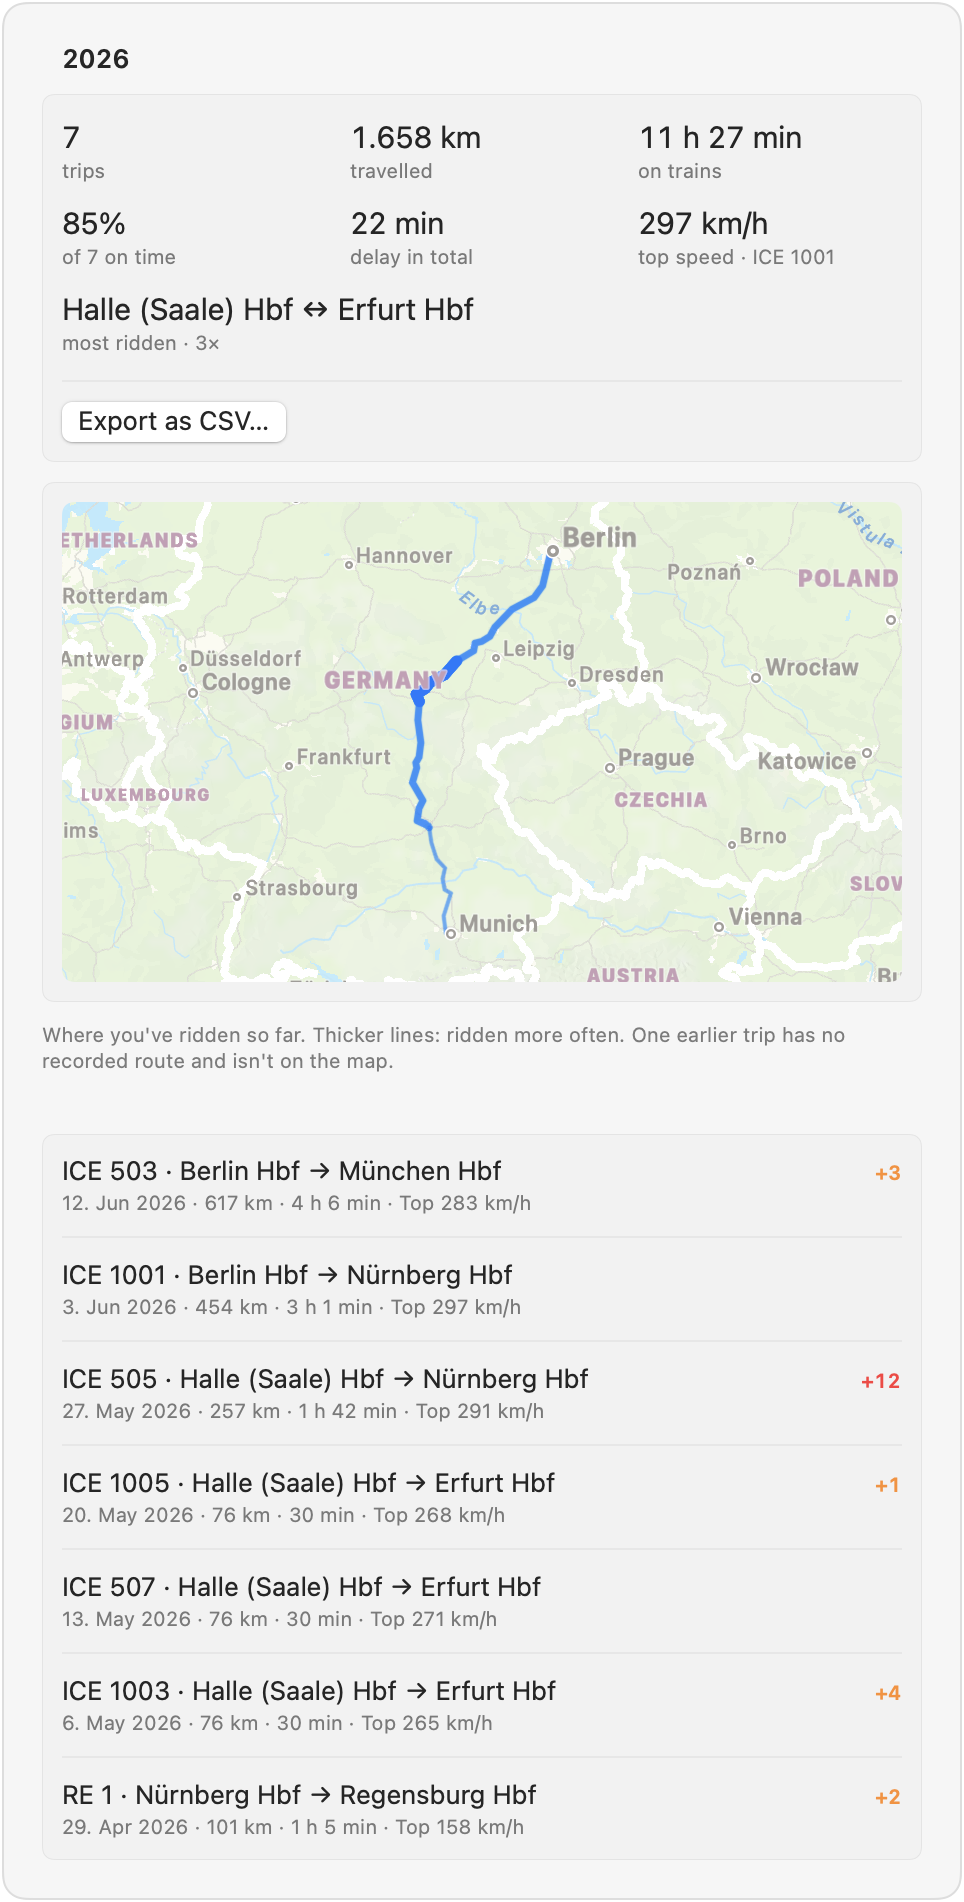
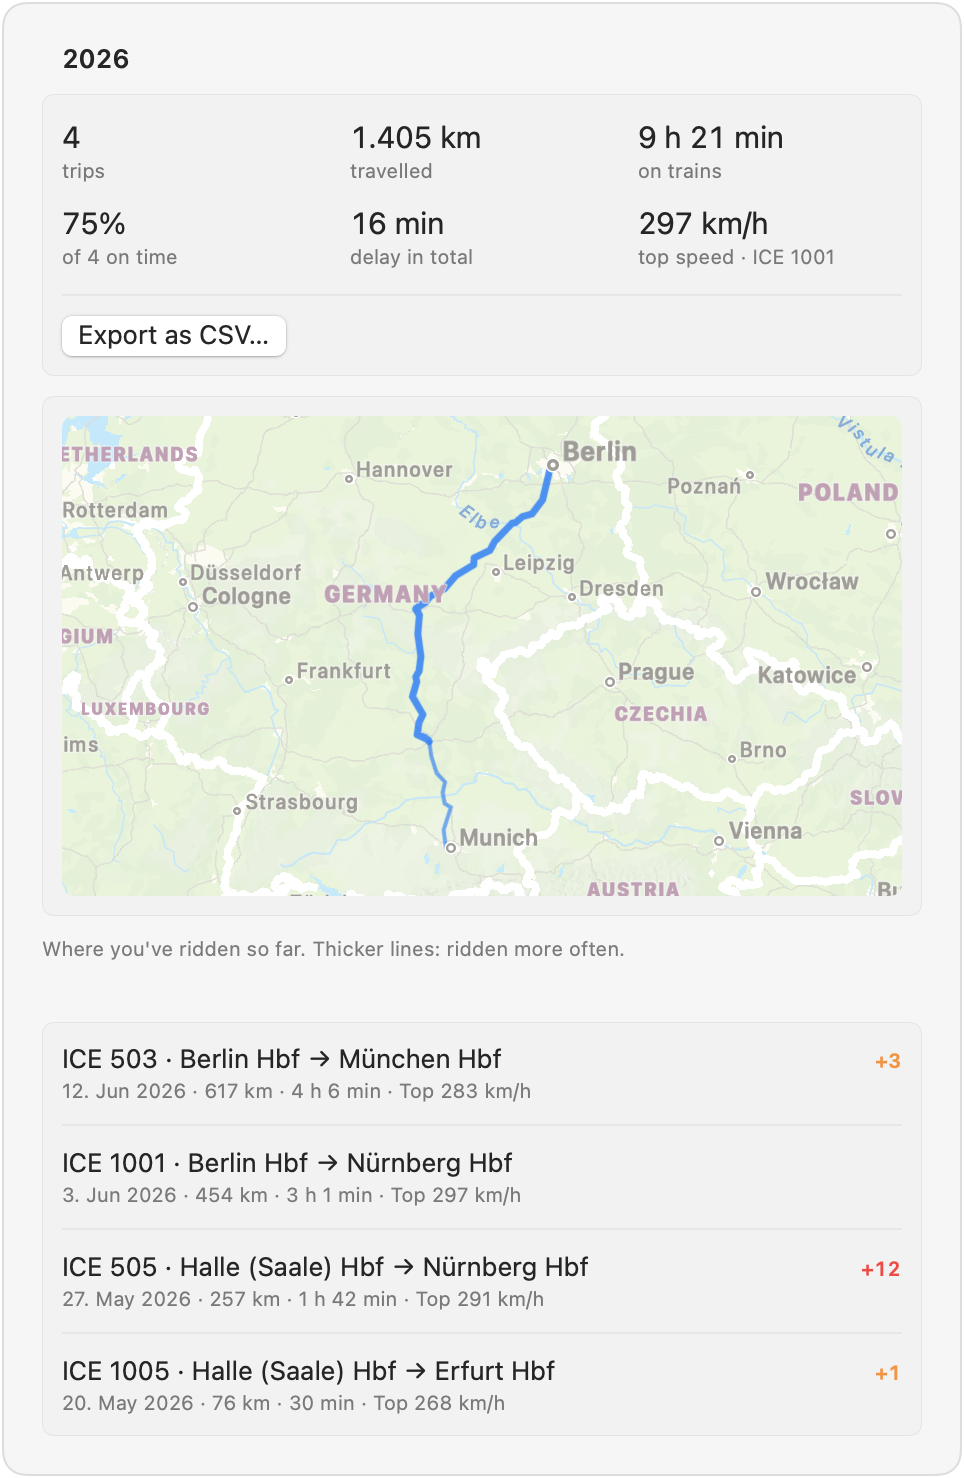
README: panels aligned at the top, a shorter trip log in light and dark

diff --git a/Sources/Zugbar/Screenshots.swift b/Sources/Zugbar/Screenshots.swift
@@ -36,7 +36,12 @@ enum Screenshots {
                 .frame(width: 820, height: 540)
             save(window, .english, dark: dark, dark ? "window-dark" : "window", in: directory, defaults: defaults)
         }
-        save(TripsView(monitor: TrainMonitor(snapshot: nil), madeUp: DemoTrips.log), .english, dark: false, "trips", in: directory, defaults: defaults)
+        // The newest few trips: the whole list would make the picture twice as tall.
+        let trips = TripLog(trips: Array(DemoTrips.log.trips.prefix(4)))
+        for dark in [false, true] {
+            save(TripsView(monitor: TrainMonitor(snapshot: nil), madeUp: trips), .english, dark: dark, dark ? "trips-dark" : "trips",
+                 in: directory, defaults: defaults)
+        }
 
         var history = TrainHistory()
         for day in 1...4 {

diff --git a/README.md b/README.md
@@ -28,13 +28,16 @@ Live train info in your Mac's menu bar.
 - English and German
 
 <p align="center">
-  <img src="docs/screenshots/panel-ice.png" width="32%" alt="On an ICE, with destination and connection">
-  <img src="docs/screenshots/panel-discover.png" width="32%" alt="Suggestions and live trains">
-  <img src="docs/screenshots/panel-regional.png" width="32%" alt="Picking a regional train at a station">
+  <img src="docs/screenshots/panel-ice.png" width="32%" align="top" alt="On an ICE, with destination and connection">
+  <img src="docs/screenshots/panel-discover.png" width="32%" align="top" alt="Suggestions and live trains">
+  <img src="docs/screenshots/panel-regional.png" width="32%" align="top" alt="Picking a regional train at a station">
 </p>
 
 <p align="center">
-  <img src="docs/screenshots/trips.png" width="44%" alt="The trip log: a year in figures and the lines ridden">
+  <picture>
+    <source media="(prefers-color-scheme: dark)" srcset="docs/screenshots/trips-dark.png">
+    <img src="docs/screenshots/trips.png" width="420" alt="The trip log: a year in figures and the lines ridden">
+  </picture>
 </p>
 
 > [!NOTE]
